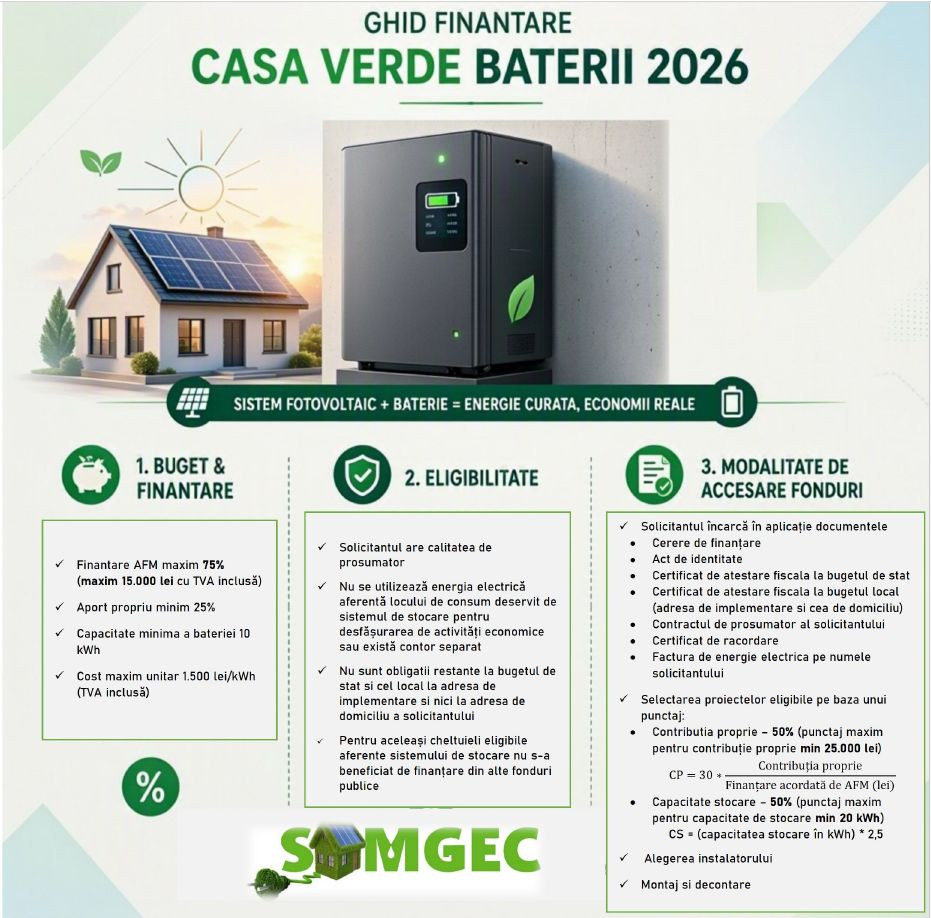
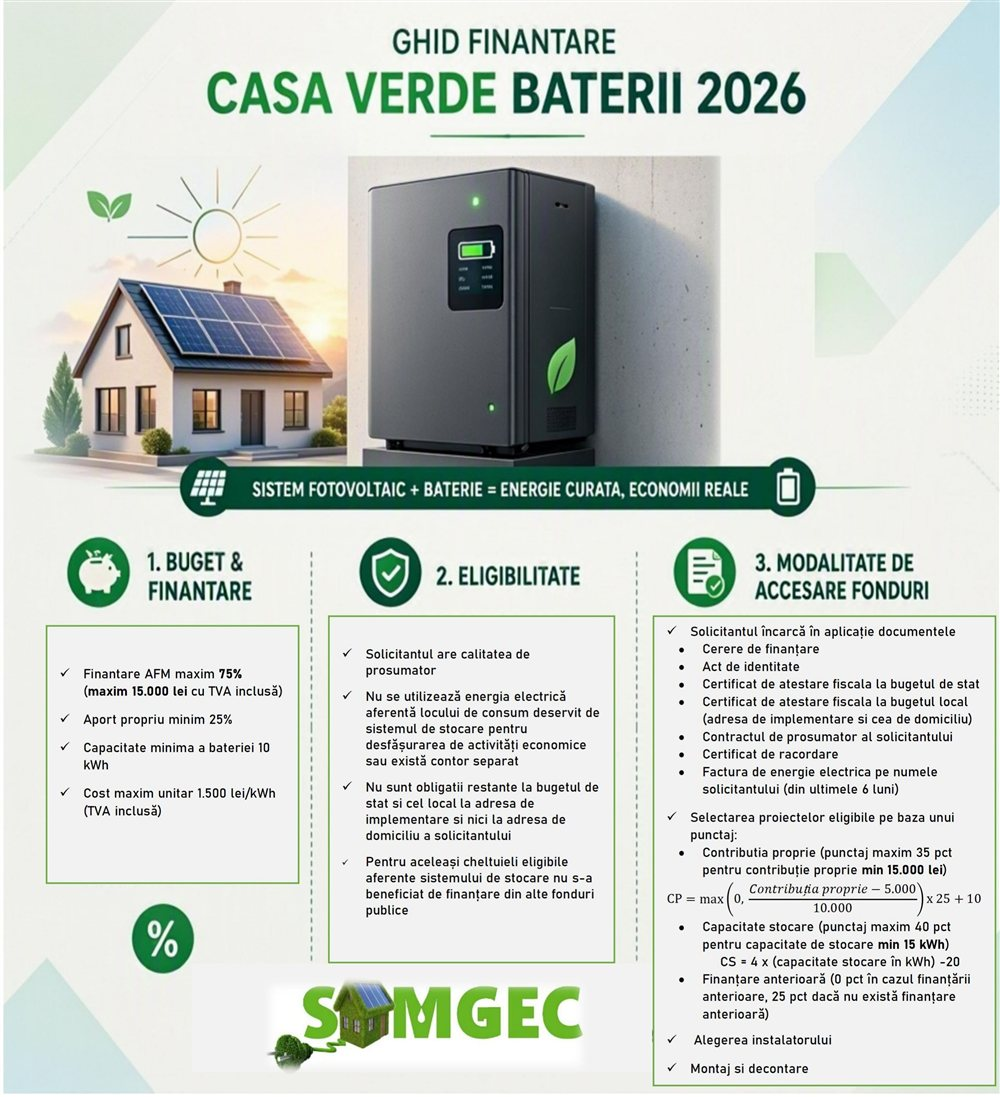
Casa Verde: new leaflet image, eligibility bullet, and reworked scoring calculator
Replace the leaflet image with the updated 2026 infographic and adjust its
aspect ratio. Add a missing eligibility bullet for applicants previously
funded for a different storage system. Rework the scoring calculator to
show the 40/35/25 weight breakdown and add a Finanțare anterioară Da/Nu
field, with CP/CS/F computed from the new formulas.

diff --git a/casa-verde.html b/casa-verde.html
@@ -123,6 +123,7 @@
             <li>Nu se desfășoară activități economice la adresa de implementare sau acestea sunt contorizate separat</li>
             <li>Nu există obligații restante la bugetul de stat și cel local nici la adresa de implementare nici la adresa de domiciliu a solicitantului</li>
             <li>Pentru aceleași cheltuieli eligibile aferente sistemului de stocare nu s-a beneficiat de finanțare din alte fonduri publice</li>
+            <li>Solicitantul care a beneficiat de finanțare pentru un sistem de stocare diferit prin alte proiecte finanțate din fonduri publice, naționale sau europene</li>
           </ul>
         </article>
         <article class="card">
@@ -188,7 +189,12 @@
 
       <div class="calc-box" id="calculator-punctaj">
         <h3>Calculează-ți punctajul</h3>
-        <p>Proiectele eligibile sunt selectate pe baza unui punctaj: 50% din contribuția proprie, 50% din capacitatea de stocare. Introdu cele două valori pentru o estimare.</p>
+        <p>Proiectele eligibile sunt selectate pe baza unui punctaj format din:</p>
+        <ul class="calc-weights">
+          <li><strong>40%</strong> contribuția proprie</li>
+          <li><strong>35%</strong> capacitatea de stocare</li>
+          <li><strong>25%</strong> finanțare anterioară</li>
+        </ul>
         <div class="calc-fields">
           <div class="field">
             <label for="calc-contributie">Contribuția proprie (lei)</label>
@@ -199,11 +205,18 @@
             <input type="text" inputmode="decimal" id="calc-capacitate" placeholder="ex: 15,00" />
             <p class="calc-warning" id="calc-capacity-warning">Capacitatea de stocare trebuie să fie de minim 10 kWh</p>
           </div>
+          <div class="field">
+            <label>Finanțare anterioară</label>
+            <span class="elig-toggle">
+              <label class="elig-opt"><input type="radio" name="calc-finantare" value="da" /><span>Da</span></label>
+              <label class="elig-opt is-no"><input type="radio" name="calc-finantare" value="nu" /><span>Nu</span></label>
+            </span>
+          </div>
         </div>
         <div class="calc-result">
           <span class="calc-score" id="calc-score">0.00</span>
           <span class="calc-score-max">/ 100 puncte</span>
-          <p class="calc-breakdown" id="calc-breakdown">Contribuție proprie: 0.00 pct · Capacitate stocare: 0.00 pct</p>
+          <p class="calc-breakdown" id="calc-breakdown">Contribuție proprie: 0.00 pct · Capacitate stocare: 0.00 pct · Finanțare anterioară: 0.00 pct</p>
         </div>
       </div>
     </div>
@@ -279,6 +292,7 @@
     "use strict";
     var contribInput = document.getElementById("calc-contributie");
     var capInput = document.getElementById("calc-capacitate");
+    var finInputs = Array.prototype.slice.call(document.querySelectorAll('input[name="calc-finantare"]'));
     var scoreEl = document.getElementById("calc-score");
     var breakdownEl = document.getElementById("calc-breakdown");
     var capWarningEl = document.getElementById("calc-capacity-warning");
@@ -288,11 +302,14 @@
     function calc() {
       var contrib = Math.max(0, parseFloat(contribInput.value.replace(/\./g, "")) || 0);
       var cap = Math.max(0, parseFloat(capInput.value.replace(",", ".")) || 0);
-      var cpScore = Math.min(50, (contrib / 25000) * 50);
-      var csScore = Math.min(50, (cap / 20) * 50);
-      var total = cpScore + csScore;
+      var finValue = "";
+      finInputs.forEach(function (r) { if (r.checked) finValue = r.value; });
+      var cpScore = Math.max(0, (contrib - 5000) / 10000) * 25 + 10;
+      var csScore = 4 * cap - 20;
+      var fScore = finValue === "da" ? 0 : finValue === "nu" ? 25 : 0;
+      var total = cpScore + csScore + fScore;
       scoreEl.textContent = total.toFixed(2);
-      breakdownEl.textContent = "Contribuție proprie: " + cpScore.toFixed(2) + " pct · Capacitate stocare: " + csScore.toFixed(2) + " pct";
+      breakdownEl.textContent = "Contribuție proprie: " + cpScore.toFixed(2) + " pct · Capacitate stocare: " + csScore.toFixed(2) + " pct · Finanțare anterioară: " + fScore.toFixed(2) + " pct";
       capWarningEl.classList.toggle("show", capInput.value !== "" && cap < 10);
     }
     contribInput.addEventListener("input", function () {
@@ -312,6 +329,9 @@
       var v = parseFloat(capInput.value.replace(",", "."));
       capInput.value = isNaN(v) ? "" : Math.max(0, v).toFixed(2).replace(".", ",");
       calc();
+    });
+    finInputs.forEach(function (r) {
+      r.addEventListener("change", calc);
     });
   })();
 </script>

diff --git a/css/styles.css b/css/styles.css
@@ -346,7 +346,7 @@ section.surface { background: var(--surface); }
    leaflet's own near-square aspect ratio (so "contain" fills it with no
    letterboxing), and a hover zoom so it can be read up close. */
 @media (min-width: 960px) { .page-casa-verde .hero-grid { grid-template-columns: 1fr 1.3fr; } }
-.page-casa-verde .hero-asset { aspect-ratio: 931 / 918; }
+.page-casa-verde .hero-asset { aspect-ratio: 1000 / 1097; }
 .page-casa-verde .hero-asset img {
   padding: 0;
   cursor: zoom-in;
@@ -413,9 +413,14 @@ section.surface { background: var(--surface); }
   border: 1px solid var(--line);
 }
 .calc-box h3 { margin: 0 0 0.5rem; font-size: 1.3rem; }
-.calc-box > p { color: var(--ink-600); margin-bottom: 1.5rem; }
+.calc-box > p { color: var(--ink-600); margin-bottom: 0.75rem; }
+.calc-weights { display: grid; gap: 0.4rem; margin: 0 0 1.5rem; padding: 0; list-style: none; }
+.calc-weights li { font-size: 0.95rem; color: var(--ink-700); padding-left: 1.4rem; position: relative; }
+.calc-weights li::before { content: ""; position: absolute; left: 0; top: 0.6em; width: 8px; height: 8px; border-radius: 2px; background: #1F7E3C; transform: rotate(45deg); }
+.calc-weights strong { color: #1F7E3C; }
 .calc-fields { display: grid; gap: 1.25rem; grid-template-columns: 1fr; margin-bottom: 1.5rem; }
 @media (min-width: 560px) { .calc-fields { grid-template-columns: 1fr 1fr; } }
+@media (min-width: 860px) { .calc-fields { grid-template-columns: 1fr 1fr 1fr; } }
 .calc-warning { display: none; margin: 0.4rem 0 0; font-size: 0.82rem; color: #B3261E; }
 .calc-warning.show { display: block; }
 .calc-result {
